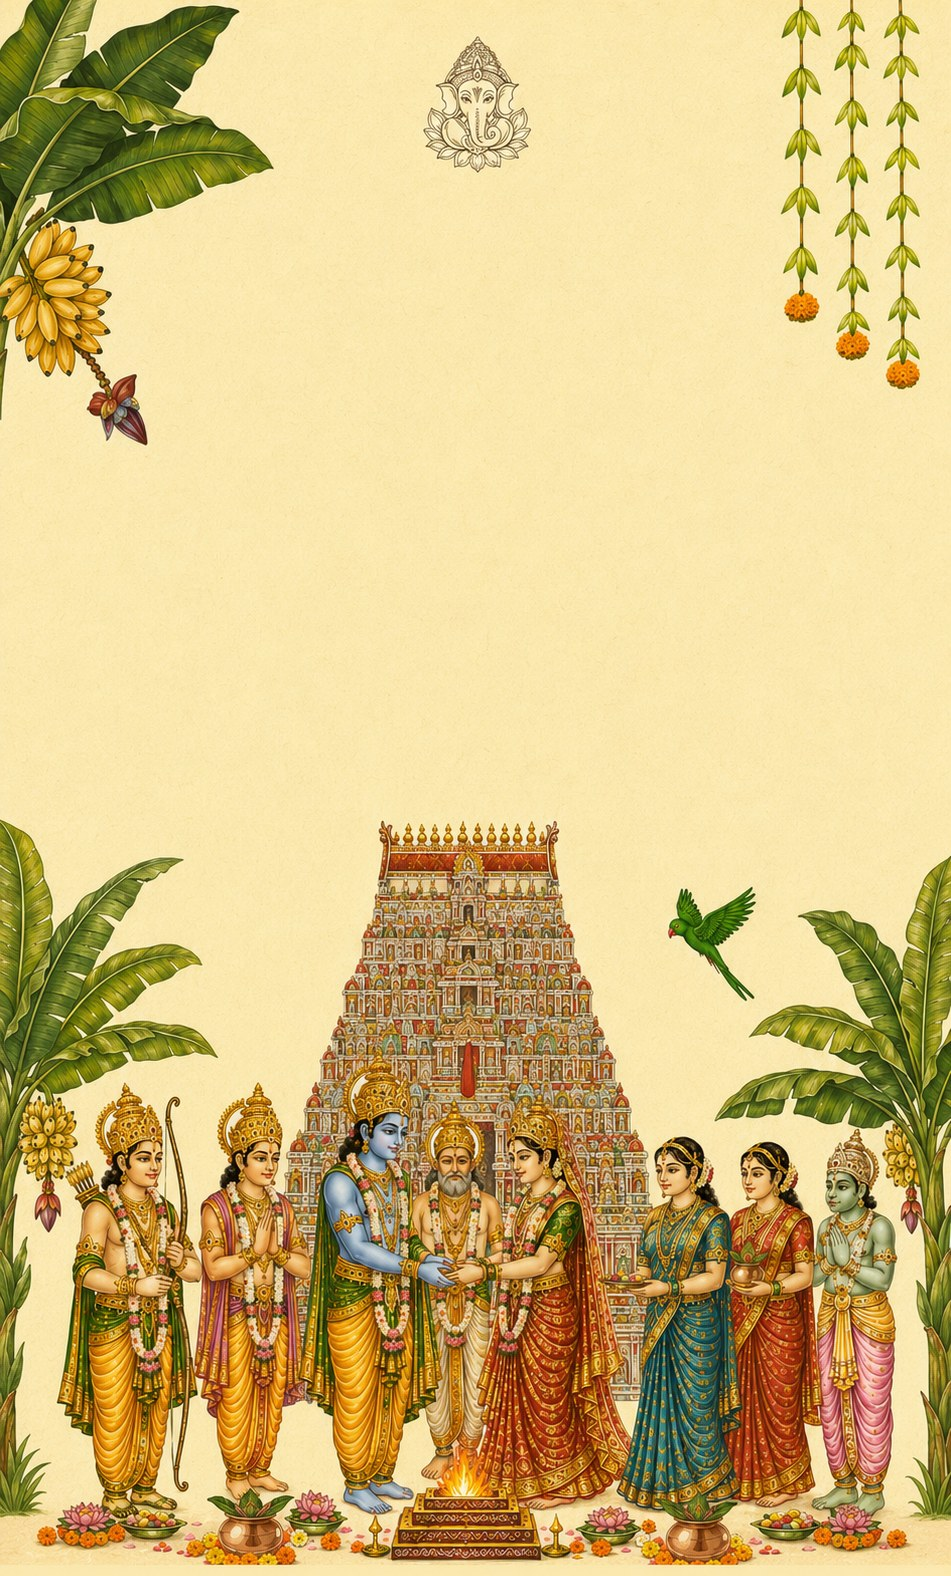
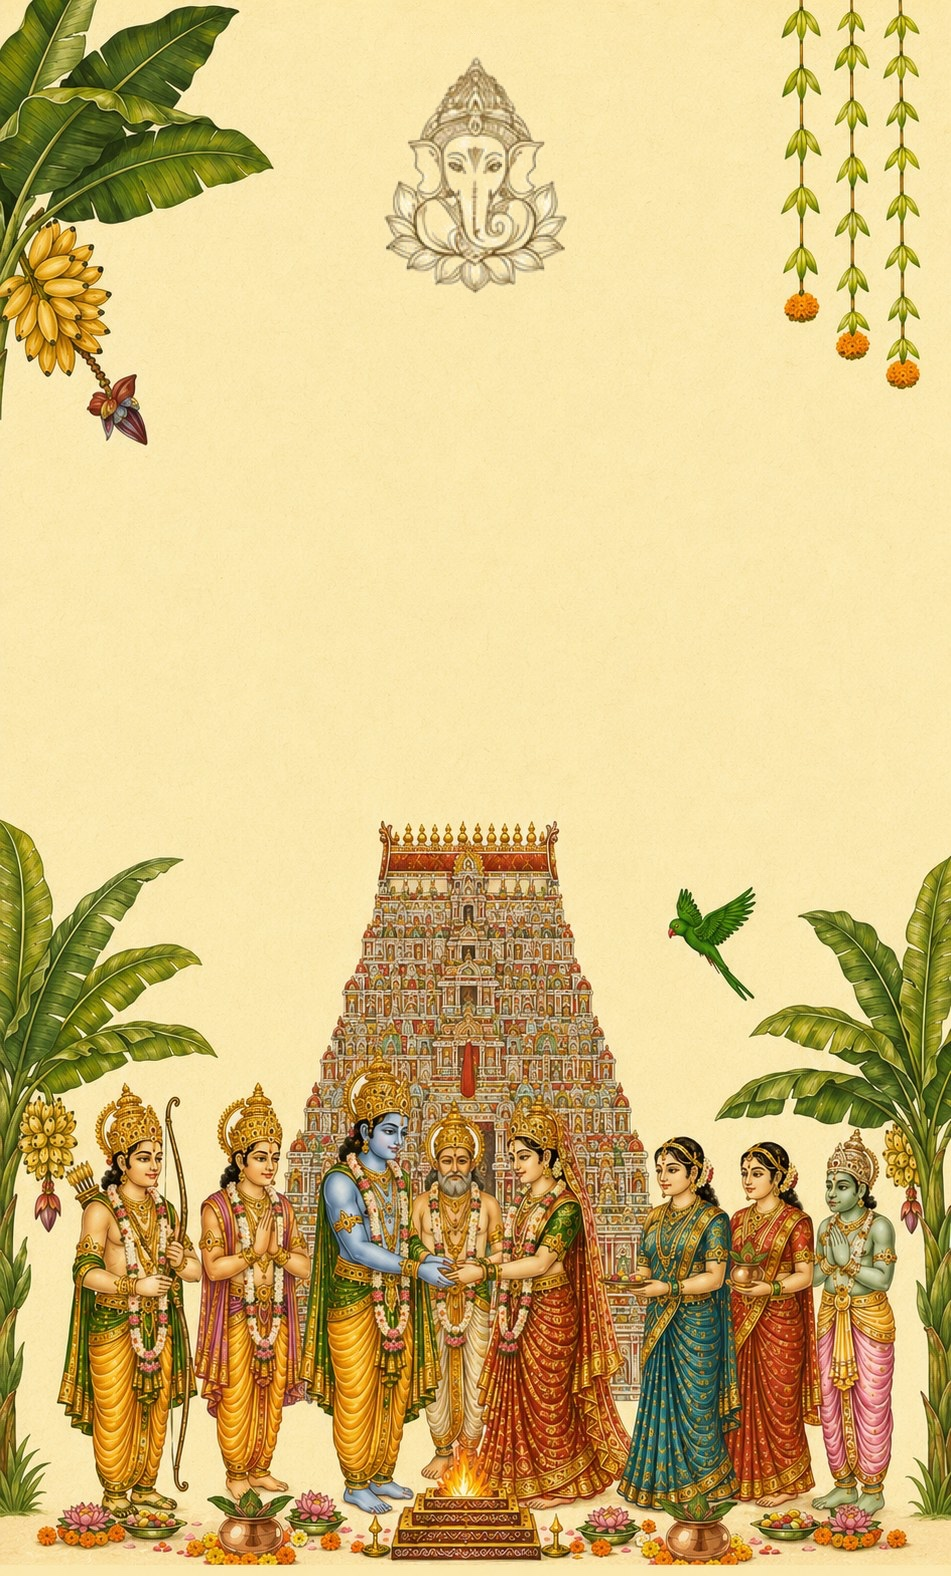
Enlarge existing Vinayaka on Pages 1 and 7 without adding new images

Changed region(s): [[0.3964, 0.0, 0.6099, 0.1865]]

diff --git a/style.css b/style.css
@@ -256,7 +256,7 @@ body.km-no-scroll {
 
 .km-entry__mandala {
   position: absolute;
-  top: 29%;
+  top: 32%;
   left: 50%;
   transform: translate(-50%, -50%);
   width: min(76vw, 330px);
@@ -273,7 +273,7 @@ body.km-no-scroll {
 
 .km-entry__content {
   position: absolute;
-  top: 13.5%;
+  top: 17.5%;
   left: 50%;
   transform: translateX(-50%);
   width: min(90%, 420px);
@@ -1682,20 +1682,20 @@ body.km-no-scroll {
 .km-footer__art {
   display: block;
   position: absolute;
-  top: -20px;
-  bottom: -20px;
+  top: 0;
+  bottom: 0;
   left: 0;
   right: 0;
   width: 100%;
-  height: calc(100% + 40px);
+  height: 100%;
   object-fit: cover;
-  object-position: center bottom;
+  object-position: center top;
   will-change: transform;
 }
 
 .km-footer__greeting {
   position: absolute;
-  top: 15%;
+  top: 20%;
   left: 50%;
   transform: translateX(-50%);
   width: 90%;
